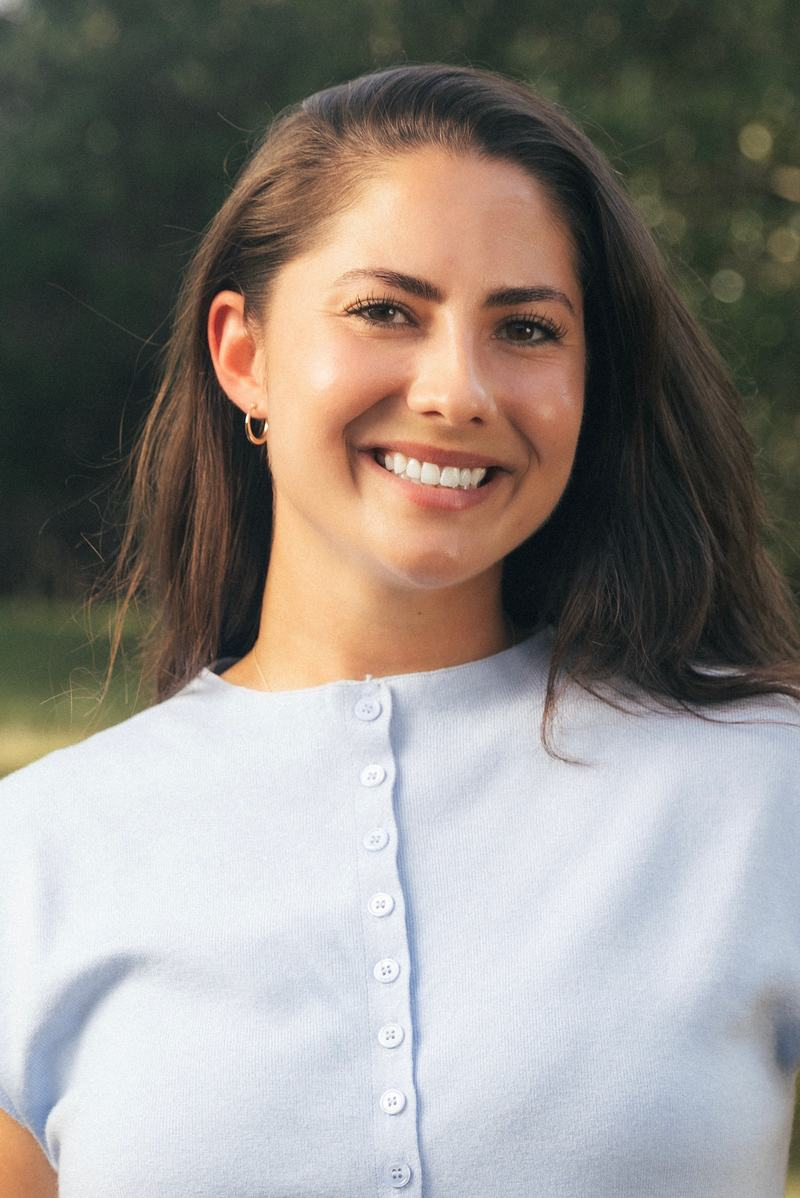
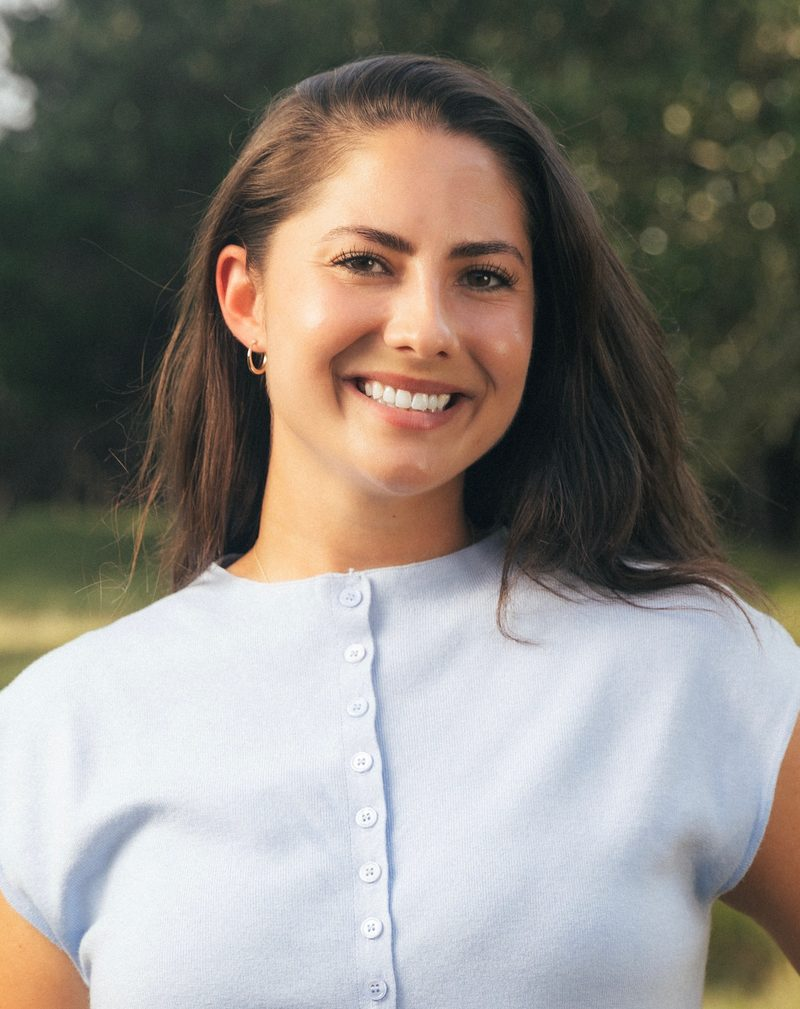
Recrop Jenna headshot to match Spencer's framing

diff --git a/contact.html b/contact.html
@@ -116,7 +116,7 @@
       <p class="person-role">Temple Industrial &mdash; Leasing &amp; Availability</p>
     </div>
     <div class="person-card">
-      <img src="jenna_headshot.jpg" alt="Jenna Neman, Temple Industrial" class="person-photo" width="800" height="1198" loading="lazy" />
+      <img src="jenna_headshot.jpg" alt="Jenna Neman, Temple Industrial" class="person-photo" width="800" height="1009" loading="lazy" />
       <p class="person-name">Jenna Neman</p>
       <p class="person-role">Temple Industrial &mdash; Leasing &amp; Availability</p>
     </div>
